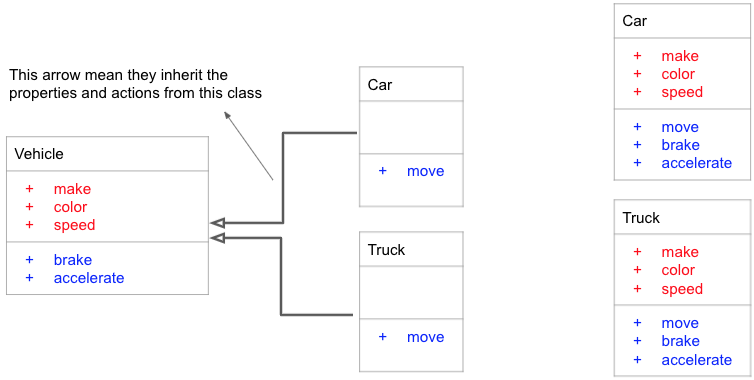
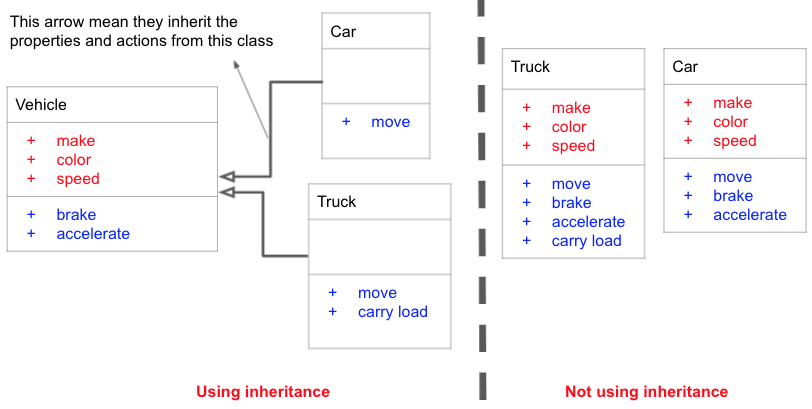
module function import

diff --git a/learn_python/chapter3.html b/learn_python/chapter3.html
@@ -389,14 +389,14 @@ class Car:
 
   def accelerate(self):
     self.speed = self.speed + 1
-    print('Car accelerated to the new speed ', self.speed)
+    print('Accelerated to the new speed ', self.speed)
   
   def brake(self):
     if self.speed < 1:
-      print('The car has stopped. No more braking.')
+      print('Stopped. No more braking.')
     else:
-    self.speed = self.speed - 1
-    print('Car reduced its speed to ', self.speed)
+      self.speed = self.speed - 1
+      print('Reduced speed to ', self.speed)
 
 
 class Truck:
@@ -410,36 +410,41 @@ class Truck:
 
   def accelerate(self):
     self.speed = self.speed + 1
-    print('Car accelerated to the new speed ', self.speed)
+    print('Accelerated to the new speed ', self.speed)
   
   def brake(self):
     if self.speed < 1:
-      print('The car has stopped. No more braking.')
+      print('Stopped. No more braking.')
     else:
-    self.speed = self.speed - 1
-    print('Car reduced its speed to ', self.speed)
+      self.speed = self.speed - 1
+      print('Reduced speed to ', self.speed)
 
   def carry_load(self):
     print('The truck is carrying load')
 
 
-my_car = Car()
-my_truck = Truck()
+my_car = Car('frod', 'red')
+my_truck = Truck('GM', 'blue')
 </code></pre>
     <p>
-      Here we have repeated all three functions twice. Once for <span class="inline-code">Car</span>
-      class and another time for <span class="inline-code">Truck</span> class.
+      Here we have exactly repeated three functions
+      (<span class="inline-code">__init__</span>, <span class="inline-code">accelerate</span>, <span
+        class="inline-code">brake</span>).
+      Once for <span class="inline-code">Car</span> class and another time for <span class="inline-code">Truck</span>
+      class.
       There is a simple way to avoid this in programming,
       and it is by having two or more obejcts be a <strong>child</strong> of some other object.
-      If and object is the child of another object it means that it can use all the functions and properties of its
+      If an object is the child of another object, it means that it can use all the functions and properties of its
       parent.
-      For example, we can have another class called <span class="inline-code">Vehicle</span>.
-      We know that <span class="inline-code">Car</span> and <span class="inline-code">Truck</span> are both vehicles.
-      So, we put everything that they have inside a class that we call <span class="inline-code">Vehilce</span>.
-      And by putting everything that they have in common in the <span class="inline-code">Vehilce</span> class,
-      and then making sure that both <span class="inline-code">Car</span> and <span class="inline-code">Truck</span>
+      For example, we know that car and truck are both vehicles, so we can have another class called <span
+        class="inline-code">Vehicle</span>.
+      By putting everything that they have in common in the <span class="inline-code">Vehilce</span> class,
+      and making sure that both <span class="inline-code">Car</span> and <span class="inline-code">Truck</span>
       are children classes of the <span class="inline-code">Vehilce</span>, we don't have to repeat them.
-      So, in Python the following code works exactly as the abvoe one.
+      The class digarams for <span class="inline-code">Car</span> and <span class="inline-code">Truck</span> classes
+      looks like the left image below.
+      Compare that to the same calsses without using inheritance on the right to see ho much we are reducing our
+      repeated code.
     </p>
     <img src="../images/learn_python/chapter3/car_inheritance.png" width="75%" class="image">
     <p>
@@ -458,14 +463,14 @@ class Vehicle:
 
   def accelerate(self):
     self.speed = self.speed + 1
-    print('Car accelerated to the new speed ', self.speed)
+    print('Accelerated to the new speed ', self.speed)
   
   def brake(self):
     if self.speed < 1:
-      print('The car has stopped. No more braking.')
+      print('Stopped. No more braking.')
     else:
     self.speed = self.speed - 1
-    print('Car reduced its speed to ', self.speed)
+    print('Reduced speed to ', self.speed)
 
 class Car(Vehicle):
   def move(self):
@@ -483,13 +488,25 @@ my_car = Car()
 my_truck = Truck()
 </code></pre>
     <p>
-      Here we used <span class="inline-code">Truck(Vehicle)</span> and <span class="inline-code">Car(Vehicle)</span>
-      instead of just <span class="inline-code">Truck</span> and <span class="inline-code">Car</span>.
+      Here we used <span class="inline-code">Car(Vehicle)</span> and <span class="inline-code">Truck(Vehicle)</span>
+      instead of just <span class="inline-code">Car</span> and <span class="inline-code">Truck</span>.
       By adding the extra <span class="inline-code">(Vehicle)</span> in front of the class name,
-      we are tellin Python that this class that we are defining is a child of the <span
+      we are telling Python that this class that we are defining is a child of the <span
         class="inline-code">Vehicle</span> class.
       So, it <strong>inherits</strong> all the propertis and action/functions that already exists in the
       <span class="inline-code">Vehicle</span> class, and we don't have to define them again.
+    </p>
+    <p>
+      Notice that <span class="inline-code">Car(Vehicle)</span> and <span class="inline-code">Truck(Vehicle)</span>
+      each have a function called <span class="inline-code">move</span> that is different between them.
+      We cannot have this function in the <span class="inline-code">Vehicle</span> class, because it is different
+      between
+      <span class="inline-code">Car(Vehicle)</span> and <span class="inline-code">Truck(Vehicle)</span>.
+      Also, as we said earlier <span class="inline-code">Truck(Vehicle)</span> has the extra <span
+        class="inline-code">carry_load</span> function.
+      Only objects that are made with this new <span class="inline-code">Truck(Vehicle)</span> class can call this
+      function, not the <span class="inline-code">Car(Vehicle)</span> or even <span class="inline-code">Vehicle</span>
+      objects.
     </p>
 
 
@@ -501,17 +518,22 @@ my_truck = Truck()
       In simple terms, the code that you have inside your file is a module.
       When you see your code is getting too large, or it is hard to keep it all in a single file,
       you can separate it into modules, and save your code in different files.
-      When you want to use what you already had in another file in your current code,
+      When you want to use what you already have in another file in your current code,
       you use <span class="inline-code">import</span>. It makes more sense with the next example:
     </p>
     <p>
       Create two files in the same directory, like the image you see below.
       Here, I am going to keep my classes inside the <i>transportation.py</i> file,
       and use <i>main.py</i> as my main file that I am writting my main code in.
-      <strong>NOTE</strong> check the files that each of the following codes goes into from the comment in its first
-      line.
+
     </p>
     <img src="../images/learn_python/chapter3/two_files.png" width="70%" class="image">
+
+    <div class="box">
+      <strong>NOTE</strong>: check the files that each of the following codes goes into from the comment in its first
+      line.
+    </div>
+
     <pre><code class="language-python"># This is the transportation.py file
 class Vehicle:
   def __init__(self, make, color):
@@ -554,6 +576,40 @@ print('The color of my car is ', my_car.color)
       because you imported it, and now you could access it in your <i>main.py</i> file by <span
         class="inline-code">transportation.</span>.
     </p>
+    <p>
+      This works also with functions that you have in other files.
+      Now, imagine you have two files again. One is called <strong>main.py</strong> and the other one
+      <strong>function_module.py</strong>.
+      See the code that we have in these two files below.
+    </p>
+
+    <pre><code class="language-python"># This is the function_module.py file
+
+def MyFunction():
+  print('Hello from another module.')
+</code></pre>
+
+    <pre><code class="language-python"># This is the main.py file
+
+# Importing the module that has our function in it
+import function_module
+
+function_module.MyFunction()
+</code></pre>
+    <p>
+      Here we use the <span class="inline-code">MyFunction</span> from <strong>function_module.py</strong> file/module
+      inside our code that is in <strong>main.py</strong> file.
+      All we need to do is to first import the <strong>function_module.py</strong> file by using <span
+        class="inline-code">import function_module</span>,
+      and then calling the <span class="inline-code">MyFunction</span> by adding the name of that module and then a "."
+      in front of it (see the code above).
+      This will be what you see if you run <strong>main.py</strong> code.
+    </p>
+    <div class="output-box">
+      Hello from another module.
+    </div>
+
+    <!-- Python Standard Library -->
     <h3>Python Standard Library</h3>
     <p>
       There are some modules that python has creatd for you and know where they are.
